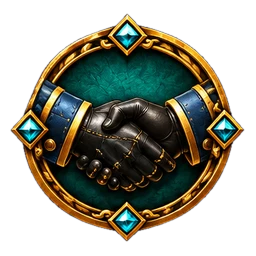
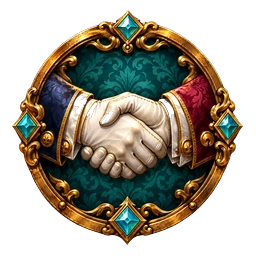
Amigos y ranking de amigos: apretón de manos con guantes blancos (v192)
Claude-Session: https://claude.ai/code/session_01D8YuskAoU39u1VrYjoDDvg

diff --git a/index.html b/index.html
@@ -47,13 +47,13 @@
 <link rel="preconnect" href="https://fonts.googleapis.com">
 <link rel="preconnect" href="https://fonts.gstatic.com" crossorigin>
 <link href="https://fonts.googleapis.com/css2?family=Playfair+Display:wght@600;700;800&family=Inter:wght@400;500;600;700;800;900&display=swap" rel="stylesheet">
-<link rel="stylesheet" href="styles/main.css?v=191">
+<link rel="stylesheet" href="styles/main.css?v=192">
 <!-- v1.4: estilos de la capa online (cuenta, migración, ranking). Solo clases .seq-* -->
-<link rel="stylesheet" href="styles/online.css?v=191">
-<link rel="stylesheet" href="styles/encargos.css?v=191">
-<link rel="stylesheet" href="styles/encargos-intro.css?v=191">
-<link rel="stylesheet" href="styles/sir-events.css?v=191">
-<link rel="stylesheet" href="styles/theme.css?v=191">
+<link rel="stylesheet" href="styles/online.css?v=192">
+<link rel="stylesheet" href="styles/encargos.css?v=192">
+<link rel="stylesheet" href="styles/encargos-intro.css?v=192">
+<link rel="stylesheet" href="styles/sir-events.css?v=192">
+<link rel="stylesheet" href="styles/theme.css?v=192">
 
 </head>
 <body class="on-home">
@@ -1104,53 +1104,53 @@ try {
 <!-- Fase 2: datos y constantes extraidos a modulos, cargados como scripts
      clasicos (no ES Modules) para conservar el scope global compartido con
      el script principal, sin convertir todavia la app a ES Modules. -->
-<script src="src/data/ui-maps.js?v=191"></script>
-<script src="src/data/questions.js?v=191"></script>
-<script src="src/data/questions-retired.js?v=191"></script>
-<script src="src/data/phrases.js?v=191"></script>
-<script src="src/data/duel-phrases.js?v=191"></script>
-<script src="src/data/lucidez.js?v=191"></script>
-<script src="src/data/medals.js?v=191"></script>
+<script src="src/data/ui-maps.js?v=192"></script>
+<script src="src/data/questions.js?v=192"></script>
+<script src="src/data/questions-retired.js?v=192"></script>
+<script src="src/data/phrases.js?v=192"></script>
+<script src="src/data/duel-phrases.js?v=192"></script>
+<script src="src/data/lucidez.js?v=192"></script>
+<script src="src/data/medals.js?v=192"></script>
 <!-- Prompt 3 — Fase C: sistema de avatares compartido (window.SEQAvatars). Debe
      cargarse antes de src/online/online.js y src/online/duels.js: ambos lo
      consumen en vez de mantener cada uno su propia copia de la lista. -->
-<script src="src/data/avatars.js?v=191"></script>
-<script src="src/share/share-card.js?v=191"></script>
+<script src="src/data/avatars.js?v=192"></script>
+<script src="src/share/share-card.js?v=192"></script>
 
 <!-- Fase 3 (Lote 3A): motor de coincidencia de respuestas extraido a
      src/utils/matching.js, mismo criterio que la Fase 2 (script clasico,
      sin ES Modules todavia). -->
-<script src="src/utils/matching.js?v=191"></script>
-<script src="src/utils/answer-alias.js?v=191"></script>
-<script src="src/utils/lucidez-select.js?v=191"></script>
-<script src="src/state/lucidez-bag.js?v=191"></script>
-<script src="src/utils/encargos-core.js?v=191"></script>
-<script src="src/utils/encargos-progress.js?v=191"></script>
-<script src="src/state/encargos.js?v=191"></script>
-<script src="src/data/encargos-phrases.js?v=191"></script>
-<script src="src/ui/encargos-ui.js?v=191"></script>
-<script src="src/data/named-phrases.js?v=191"></script>
-<script src="src/utils/named-phrases.js?v=191"></script>
-<script src="src/utils/encargos-intro-core.js?v=191"></script>
-<script src="src/data/encargos-intro-phrases.js?v=191"></script>
-<script src="src/ui/encargos-intro.js?v=191"></script>
-<script src="src/data/home-quotes.js?v=191"></script>
-<script src="src/ui/home-quote.js?v=191"></script>
-<script src="src/utils/sir-events.js?v=191"></script>
-<script src="src/ui/sir-events-ui.js?v=191"></script>
-<script src="src/state/sir-events.js?v=191"></script>
-<script src="src/utils/sudden-progression.js?v=191"></script>
-<script src="src/utils/fresh-first.js?v=191"></script>
-<script src="src/utils/mental-calc.js?v=191"></script>
-<script src="src/utils/mental-classic.js?v=191"></script>
-<script src="src/ui/mental-classic-ui.js?v=191"></script>
+<script src="src/utils/matching.js?v=192"></script>
+<script src="src/utils/answer-alias.js?v=192"></script>
+<script src="src/utils/lucidez-select.js?v=192"></script>
+<script src="src/state/lucidez-bag.js?v=192"></script>
+<script src="src/utils/encargos-core.js?v=192"></script>
+<script src="src/utils/encargos-progress.js?v=192"></script>
+<script src="src/state/encargos.js?v=192"></script>
+<script src="src/data/encargos-phrases.js?v=192"></script>
+<script src="src/ui/encargos-ui.js?v=192"></script>
+<script src="src/data/named-phrases.js?v=192"></script>
+<script src="src/utils/named-phrases.js?v=192"></script>
+<script src="src/utils/encargos-intro-core.js?v=192"></script>
+<script src="src/data/encargos-intro-phrases.js?v=192"></script>
+<script src="src/ui/encargos-intro.js?v=192"></script>
+<script src="src/data/home-quotes.js?v=192"></script>
+<script src="src/ui/home-quote.js?v=192"></script>
+<script src="src/utils/sir-events.js?v=192"></script>
+<script src="src/ui/sir-events-ui.js?v=192"></script>
+<script src="src/state/sir-events.js?v=192"></script>
+<script src="src/utils/sudden-progression.js?v=192"></script>
+<script src="src/utils/fresh-first.js?v=192"></script>
+<script src="src/utils/mental-calc.js?v=192"></script>
+<script src="src/utils/mental-classic.js?v=192"></script>
+<script src="src/ui/mental-classic-ui.js?v=192"></script>
 
 <!-- Fase 3 (Lote 3B): nucleo algoritmico de Duelo extraido a
      src/utils/duel.js, mismo criterio que el resto (script clasico, sin
      ES Modules todavia). Las dependencias compartidas con otros modos
      (arrangeStandardBlock, generateLucidezMentalOp)
      permanecen en este script principal, sin moverse en este lote. -->
-<script src="src/utils/duel.js?v=191"></script>
+<script src="src/utils/duel.js?v=192"></script>
 
 <!-- Fase 3 (Lote 3C): defaults, migracion y saneamiento del Store
      extraidos a src/utils/store.js, mismo criterio que el resto (script
@@ -1162,50 +1162,50 @@ try {
      getLevelData) y las 8 funciones de persistencia real (loadStore,
      saveStore, exportProgress...) permanecen en este script principal,
      sin moverse en este lote. -->
-<script src="src/utils/store.js?v=191"></script>
+<script src="src/utils/store.js?v=192"></script>
 
 <!-- Fase 4B: fachada de estado de solo lectura (getStore/getCurrentGame),
      mismo criterio que el resto (script clasico, sin ES Modules todavia).
      No copia, no transforma, no cachea. Ver src/state/read-facade.js. -->
-<script src="src/state/read-facade.js?v=191"></script>
+<script src="src/state/read-facade.js?v=192"></script>
 
-<script src="src/utils/streak-xp.js?v=191"></script>
+<script src="src/utils/streak-xp.js?v=192"></script>
 <!-- Fase 4C: helpers minimos de escritura (pushCapped, resetStreak) para
      eliminar 2 duplicaciones reales concretas -- no un sistema de
      mutaciones. Ver src/state/write-helpers.js y CHANGELOG_FASE4C.md. -->
-<script src="src/state/write-helpers.js?v=191"></script>
+<script src="src/state/write-helpers.js?v=192"></script>
 
 <!-- v1.4: capa online (cuenta Google, sincronización, migración, ranking).
      config.js es PÚBLICO (URL del Worker + Client ID de Google); si está
      vacío, la capa online queda desactivada y la app es idéntica a la v1.3.
      online.js solo usa el store/funciones del juego en tiempo de ejecución. -->
-<script src="src/ui/install-app.js?v=191"></script>
-<script src="src/ui/a11y.js?v=191"></script>
-<script src="src/ui/back-nav.js?v=191"></script>
-<script src="src/ui/game-fx.js?v=191"></script>
-<script src="src/ui/last-life.js?v=191"></script>
-<script src="src/ui/hitos.js?v=191"></script>
-<script src="src/ui/achievements.js?v=191"></script>
-<script src="src/ui/stats-extra.js?v=191"></script>
-<script src="src/ui/name-prompt.js?v=191"></script>
-<script src="src/ui/intro.js?v=191"></script>
-<script src="src/ui/mode-badges.js?v=191"></script>
-<script src="src/ui/lucidez-ui.js?v=191"></script>
-<script src="src/ui/sabias.js?v=191"></script>
-<script src="src/ui/icons.js?v=191"></script>
-<script src="src/online/config.js?v=191"></script>
+<script src="src/ui/install-app.js?v=192"></script>
+<script src="src/ui/a11y.js?v=192"></script>
+<script src="src/ui/back-nav.js?v=192"></script>
+<script src="src/ui/game-fx.js?v=192"></script>
+<script src="src/ui/last-life.js?v=192"></script>
+<script src="src/ui/hitos.js?v=192"></script>
+<script src="src/ui/achievements.js?v=192"></script>
+<script src="src/ui/stats-extra.js?v=192"></script>
+<script src="src/ui/name-prompt.js?v=192"></script>
+<script src="src/ui/intro.js?v=192"></script>
+<script src="src/ui/mode-badges.js?v=192"></script>
+<script src="src/ui/lucidez-ui.js?v=192"></script>
+<script src="src/ui/sabias.js?v=192"></script>
+<script src="src/ui/icons.js?v=192"></script>
+<script src="src/online/config.js?v=192"></script>
 <!-- v2.0: combinación de datos de jugador (mismo código que el servidor) y su sincronización -->
-<script src="src/utils/sync-merge.js?v=191"></script>
-<script src="src/online/data-sync.js?v=191"></script>
-<script src="src/online/online.js?v=191"></script>
+<script src="src/utils/sync-merge.js?v=192"></script>
+<script src="src/online/data-sync.js?v=192"></script>
+<script src="src/online/online.js?v=192"></script>
 <!-- v1.5: Amigos, Duelo online y Retos. El servidor decide preguntas, tiempo, aciertos y ganador. -->
-<script src="src/online/duels.js?v=191"></script>
+<script src="src/online/duels.js?v=192"></script>
 <!-- 2.1: Duelo por apuestas, ELO PvP, Rankings y estadísticas de Duelos (solo presentación; decide el servidor) -->
-<script src="src/online/duels-v21.js?v=191"></script>
-<script src="src/online/inbox.js?v=191"></script>
-<script src="src/online/push.js?v=191"></script>
+<script src="src/online/duels-v21.js?v=192"></script>
+<script src="src/online/inbox.js?v=192"></script>
+<script src="src/online/push.js?v=192"></script>
 <!-- Audio: sonidos del juego (src/audio/audio.js) -->
-<script src="src/audio/audio.js?v=191"></script>
+<script src="src/audio/audio.js?v=192"></script>
 
 <script>
 function closeWelcomeModal() {

diff --git a/sw.js b/sw.js
@@ -38,7 +38,7 @@
 // styles/main.css, src/data/medals.js, src/utils/store.js y src/online/duels.js (ya en el shell).
 // 2.0 (Prompt 5, tarjeta de compartir): subido de 10 a 11; nuevo src/share/share-card.js
 // (añadido al shell) y cambiaron index.html y src/online/duels.js.
-const CACHE_VERSION = 191;
+const CACHE_VERSION = 192;
 // Dos cachés (ver install/fetch más abajo):
 //  · CACHE_NAME  (versionada): index.html, CSS, JS, manifest e iconos. Es poco y es imprescindible: si no se puede guardar, la
 //    versión nueva no se instala y se queda la anterior.
@@ -437,7 +437,7 @@ const ASSET_REVS = {
   './assets/duelos/rangos/lord_sabelotodo.webp': '9d4e0dea',
   './assets/duelos/rangos/plebeyo_ilustrado.webp': '9c9aadc0',
   './assets/duelos/rangos/sir_edwards.webp': '05fa85f5',
-  './assets/duelos/rankings/friends.webp': 'c8a2fd49',
+  './assets/duelos/rankings/friends.webp': '0703935f',
   './assets/duelos/rankings/global.webp': 'dcfdf98c',
   './assets/duelos/rankings/mental.webp': 'f823292b',
   './assets/duelos/rankings/pvp.webp': '9d9a136b',
@@ -514,7 +514,7 @@ const ASSET_REVS = {
   './assets/logros/tt_50.webp': '68630d42',
   './assets/modes/ajustes.webp': '04e7acbd',
   './assets/modes/ameba.webp': '9253546d',
-  './assets/modes/amigos.webp': '8e170114',
+  './assets/modes/amigos.webp': '0703935f',
   './assets/modes/calculo.webp': 'f2414652',
   './assets/modes/contrarreloj.webp': '77bff741',
   './assets/modes/derrame.webp': '04ceb604',
